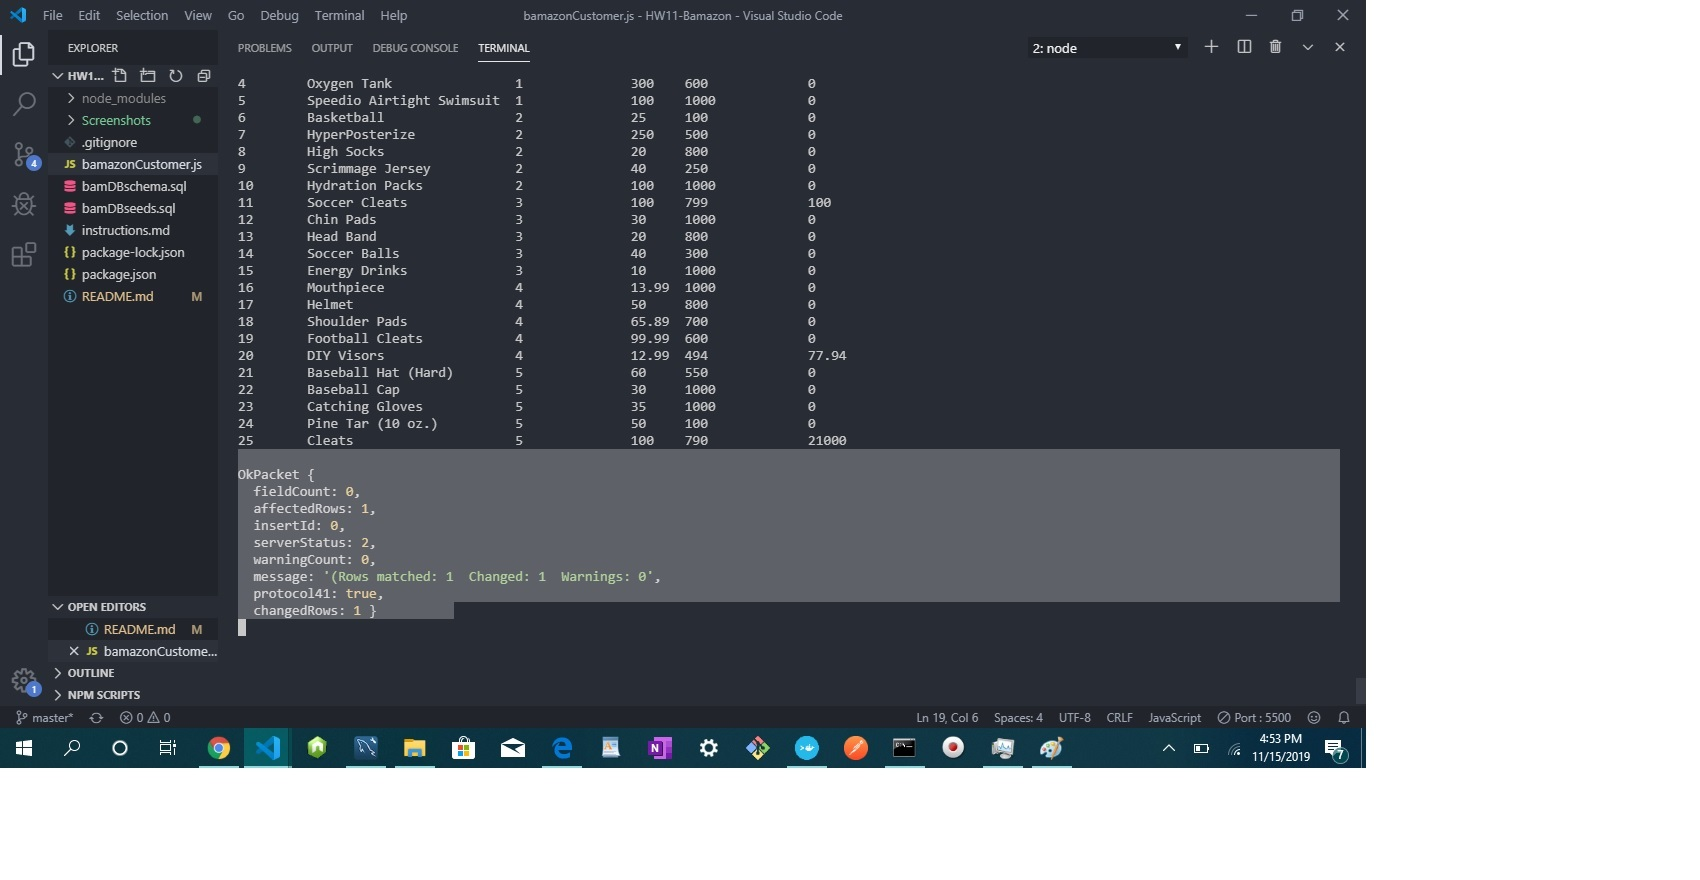
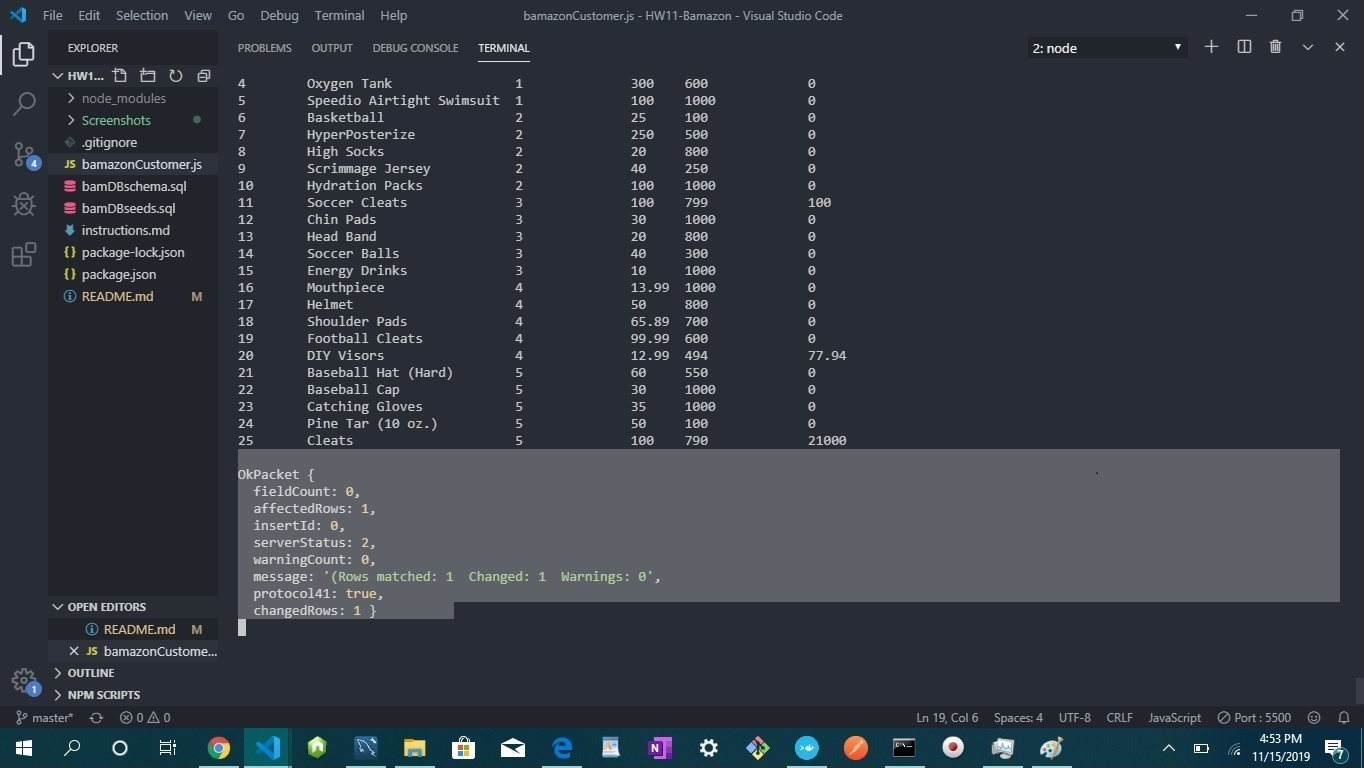
Updated README with screenshots and updated screenshots to be full frame

diff --git a/README.md b/README.md
@@ -1,3 +1,69 @@
-## Bamazon Application
+# Bamazon Application
 
-### 
+## Application Overview 
+
+ 1. This basic CLI application is an Amazon-like storefront that uses node as a server and MYSQL as the database. The app will take in orders from customers and deplete stock from the store's inventory. 
+ 
+ 2. In the CLI, through the use of Node.js, you will also receive a response to your order with the total sales as well as the item purchased to you in the terminal. On the back end, it connects to the SQL database and changes the data in the tables dynamically. 
+
+### Datbase Schema 
+ The products table has each of the following columns:
+
+   * item_id (unique id for each product)
+
+   * product_name (Name of product)
+
+   * department_name  
+
+   * price (cost to customer)
+
+   * stock_quantity (how much of the product is available in stores)
+
+### Implementation (Screenshots of each provided below![by number])
+1. Navigate to the root directory in which the `bamazonCustomer.js` file is in. Then, run an `npm install` command to the terminal
+
+2. Navigate to the root directory in which the `bamazonCustomer.js` file is in. Then, run a `node bamazonCustomer.js` command into the terminal. 
+    * The app will respond with two queries, the second dependent on the first. 
+    * It which item you would like to buy. The answer ot this question shouild be the item_id shown in the table. The numbers are incremented from 1. 
+    * The second question asks how many you would like to purchase. Keep note of the available items in stock, as some items may be out of stock and you will not be able to purchase these. 
+
+
+3. After you enter these parameters, the terminal will respond with the name of the item you want to buy, the quantity, and the total cost. 
+
+4. In addition, to be sure that the database has accepted your request, an OK packet is returned, and the database is updated. 
+
+5. The next time you run the `node bamazonCustomer.js`  comnmand to the CLI, it will return the current database table with the updated info. The items you purchased are removed from the inventory and the total cost is added to the product_sales . 
+
+### Pictures of Implementation (Correspond with Numbers Above (Implementation))
+
+1. Dependency Downloads: ![NPM](Screenshots/npminstall.jpg)
+
+2. Running the App: ![Run](Screenshots/nodebamazonprompts.png.jpg)
+
+3. Response After Prompts: ![Response](Screenshots/promptresponse.jpg)
+
+4. OK Packet: ![OK](Screenshots/OkPacket.jpg)
+
+5. Updated Database: ![Update](Screenshots/UpdatedDBInfo.jpg)
+
+### Technologies Used 
+
+1. Node.js
+
+2. Vanilla js 
+
+3. Node Packet Manager (NPM)
+    * Inquirer 
+    * mysql
+    * console.table
+
+4. SQL 
+
+5. SQL Database
+
+
+## My Role
+
+I, Andrew Fowose am the sole developer of this application. 
+
+
